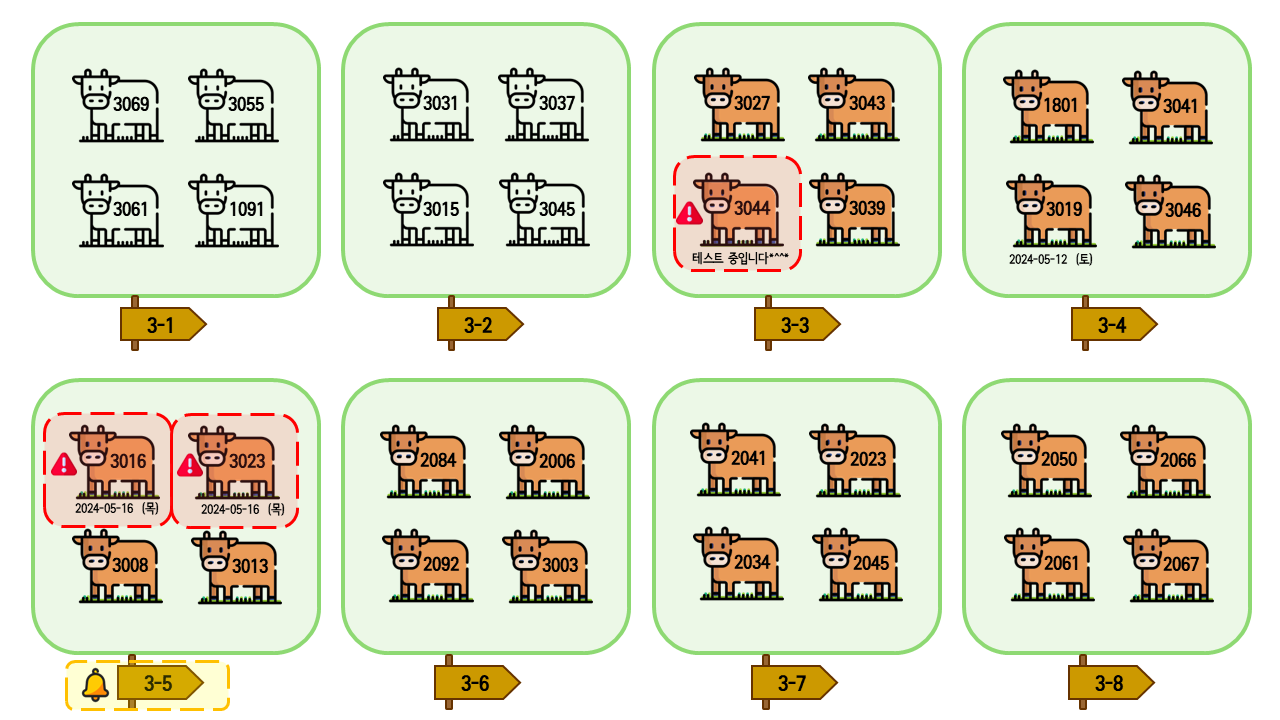
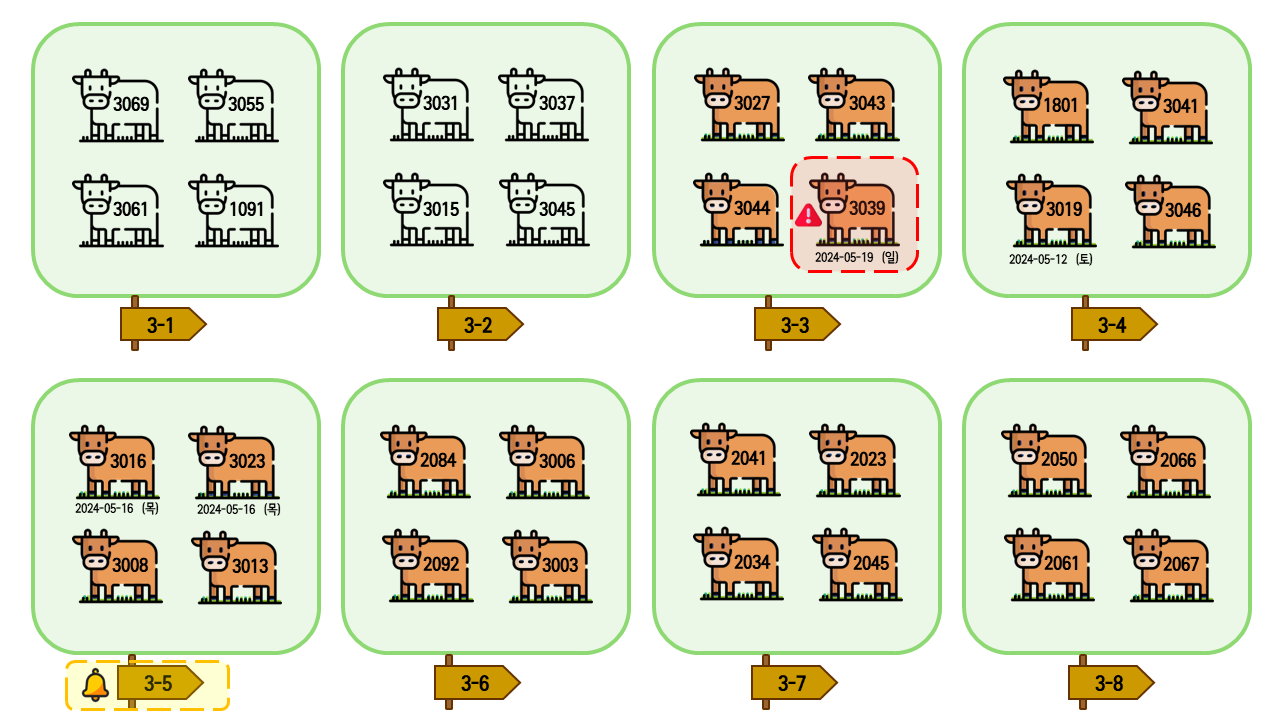
Add files via upload

Changed region(s): [[0.0312, 0.55, 0.25, 0.7333], [0.5, 0.2139, 0.7188, 0.3972]]

diff --git a/cowsample/index.html b/cowsample/index.html
@@ -104,7 +104,7 @@
 </head>
 <body>
     <h1>새봄농장 3동 개체 발정 및 건강 상태</h1>
-    <div id="updateInfo">최근 업데이트 : 2024-05-16 14:00:00</div>
+    <div id="updateInfo">최근 업데이트 : 2024-05-20 10:00:00</div>
     <div> </div>
     <button id="button1">발정 알림</button>
     <button id="button2">건강 알림</button>
@@ -120,7 +120,7 @@
     <div> </div>
     <button id="imbutton" class="image-button" >
         <img id="cow1" src="cow1.png" alt="이미지 버튼">
-        <span class="button-text">3023</span>
+        <span class="button-text">3039</span>
     </button>
     <p > </p>
 
@@ -132,7 +132,7 @@
     <div> </div>
 
     <div id="imageContainer">
-        <img id="img3" src="plot_3023.png" alt="세 번째 이미지">
+        <img id="img3" src="plot_3039.png" alt="세 번째 이미지">
     </div>
 
 
